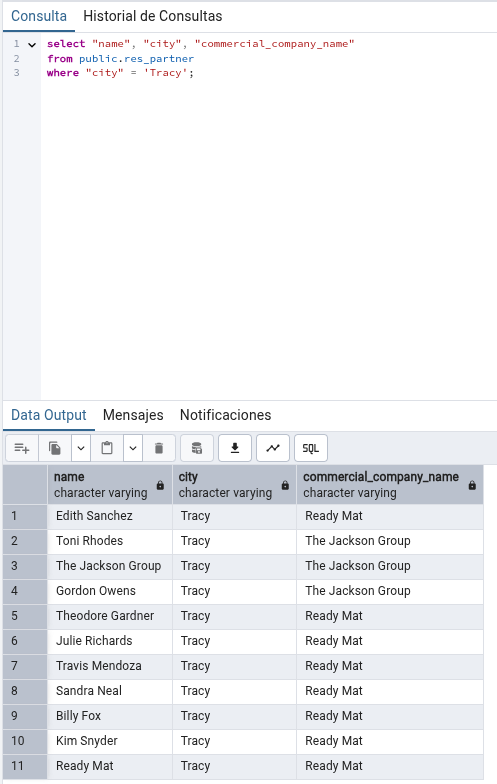
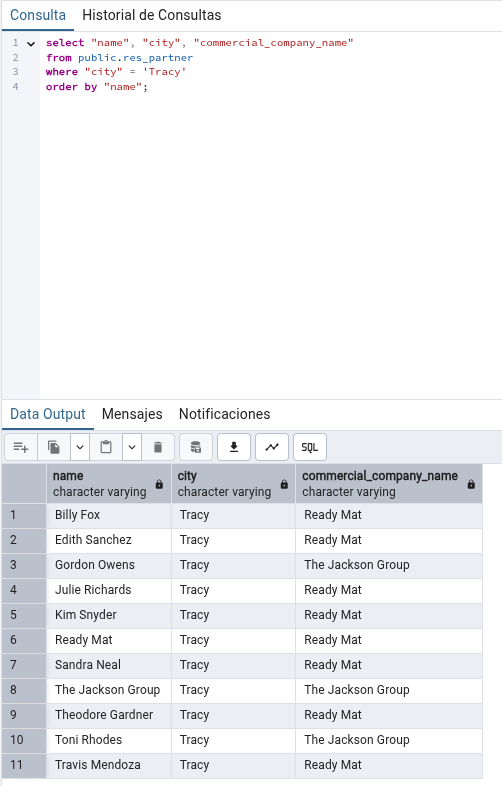
Apartado 4 modificado por falta de ordenación

Changed region(s): [[0.0, 0.4898, 0.996, 1.0], [0.0, 0.0, 0.7243, 0.1224]]

diff --git a/README.md b/README.md
@@ -77,7 +77,8 @@ Ordenados alfabéticamente por el nombre comercial de la empresa.
 ```sql
 select "name", "city", "commercial_company_name" 
 from public.res_partner 
-where "city" = 'Tracy';
+where "city" = 'Tracy'
+order by "name";
 ```
 ***🖼 Captura de pantalla:***
 
